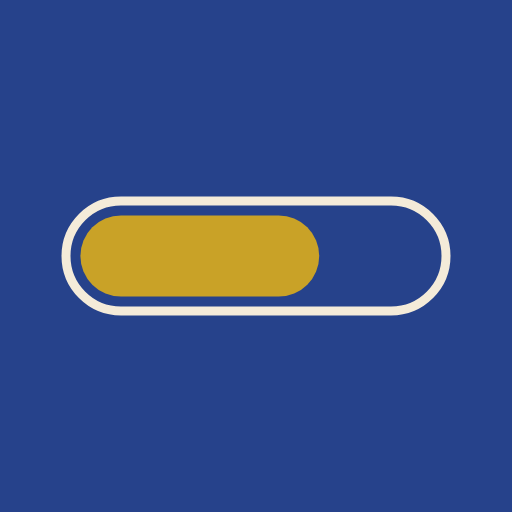
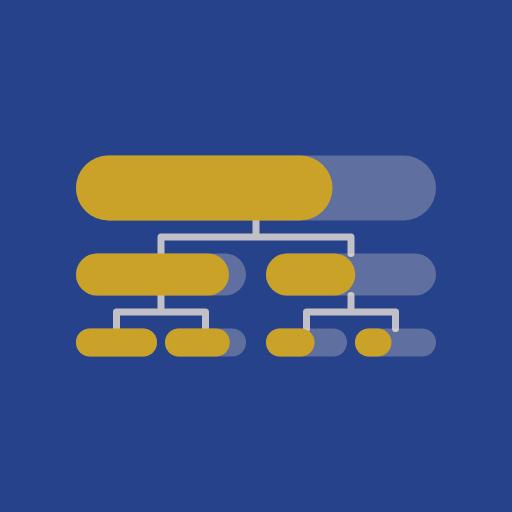
Icône : arbre de barres de progression sur plusieurs étages
Remplace la barre unique par une hiérarchie à 3 étages (1 barre, puis 2, puis
4) reliées par des connecteurs, comme les niveaux de l'app : la barre d'un
parent est la moyenne de ses enfants. Le favicon 48 px garde 2 étages pour
rester lisible. Motifs dimensionnés pour les zones de sécurité Android
(adaptive) et PWA (maskable). Cache du service worker en v3.

Claude-Session: https://claude.ai/code/session_01Umu8nfsphDbcRcck1wwHdo

Changed region(s): [[0.0938, 0.2812, 0.9062, 0.7188]]

diff --git a/public/sw.js b/public/sw.js
@@ -1,6 +1,6 @@
 // Service worker minimal : l'application fonctionne hors ligne après la première visite.
 // Les fichiers de l'application (JS, icônes…) sont mis en cache à la volée ; la navigation retombe sur index.html.
-const CACHE = 'w-cache-v2'; // v2 : nouvelle icône (les icônes sont servies depuis le cache)
+const CACHE = 'w-cache-v3'; // v3 : nouvelle icône (les icônes sont servies depuis le cache)
 
 // À l'installation : on met en cache la page ET les scripts qu'elle référence, pour que la première visite
 // suffise à fonctionner hors ligne (sans dépendre du cache HTTP du navigateur).

diff --git a/CLAUDE.md b/CLAUDE.md
@@ -92,9 +92,10 @@ Inspiration d'interface : « Study Tracker & Timer: Track It » (Android) mais *
       la logique est testée dans Chromium (fenêtre réduite pour simuler le clavier) mais pas avec un vrai clavier Android
 - [x] Rappels : notifications locales via `expo-notifications` (`src/notifications`), **code jamais exécuté sur un vrai
       téléphone** ; sur web/PWA les rappels sont enregistrés mais ne sonnent pas (l'UI le dit)
-- [x] Icône = **barre de progression** (cadre crème `#F4EBD9` + remplissage doré `#C9A227` à 68 %, sur `#26428B`) —
-      remplace l'ancien « A » (les variantes « 3 barres empilées » et « pilule seule » ont été écartées : elles font
-      penser à un menu hamburger / un interrupteur). Nom « Alam », splash
+- [x] Icône = **arbre de barres de progression** (3 étages : 1 barre → 2 → 4, reliées par des connecteurs ; remplissage
+      doré `#C9A227`, piste crème `#F4EBD9` translucide, sur `#26428B`) : la barre d'un parent est la moyenne de ses
+      enfants, comme dans l'app. Remplace l'ancien « A » puis une barre seule dans un cadre (écartée). Favicon 48 px = version
+      à 2 étages (plus lisible). Nom « Alam », splash
 - [x] PWA : `public/` (manifest, sw.js qui précache page + JS, icônes), testée hors ligne et sous sous-chemin GitHub Pages
 - [x] Workflows : `.github/workflows/pages.yml` (site, sur push `main`) et `android-apk.yml` (APK, à la main ou tag `v*`)
       — **jamais exécutés** (ne peuvent pas l'être depuis ici)
@@ -128,7 +129,8 @@ Inspiration d'interface : « Study Tracker & Timer: Track It » (Android) mais *
 - Icônes : générées avec Playwright (SVG rendu dans Chromium, capture PNG, `omitBackground` pour l'adaptive et le
   splash) ; pas de Pillow dans l'environnement. 8 fichiers à régénérer ensemble : `assets/{icon,adaptive-icon,
   splash-icon,favicon}.png` et `public/{icon-192,icon-512,icon-maskable-512,apple-touch-icon}.png`. Zones de
-  sécurité : adaptive Android = cercle de 66 % (motif réduit à 80 %), maskable PWA = cercle de 80 %.
+  sécurité (mesurées sur le pixel le plus éloigné du centre) : adaptive Android = cercle de 66 % (motif à 78 %),
+  maskable PWA = cercle de 80 % (motif à 95 %). Le script de génération n'est pas dans le dépôt.
   Changer une icône PWA ⇒ incrémenter `CACHE` dans `public/sw.js` (les icônes sont servies depuis le cache).
 - Test web : `CI=1 npx expo export --platform web --output-dir dist`, servir `dist/` (ignoré par git), piloter avec
   Playwright (`/opt/node22/lib/node_modules/playwright`, `executablePath: '/opt/pw-browsers/chromium'`, `--no-sandbox`).
